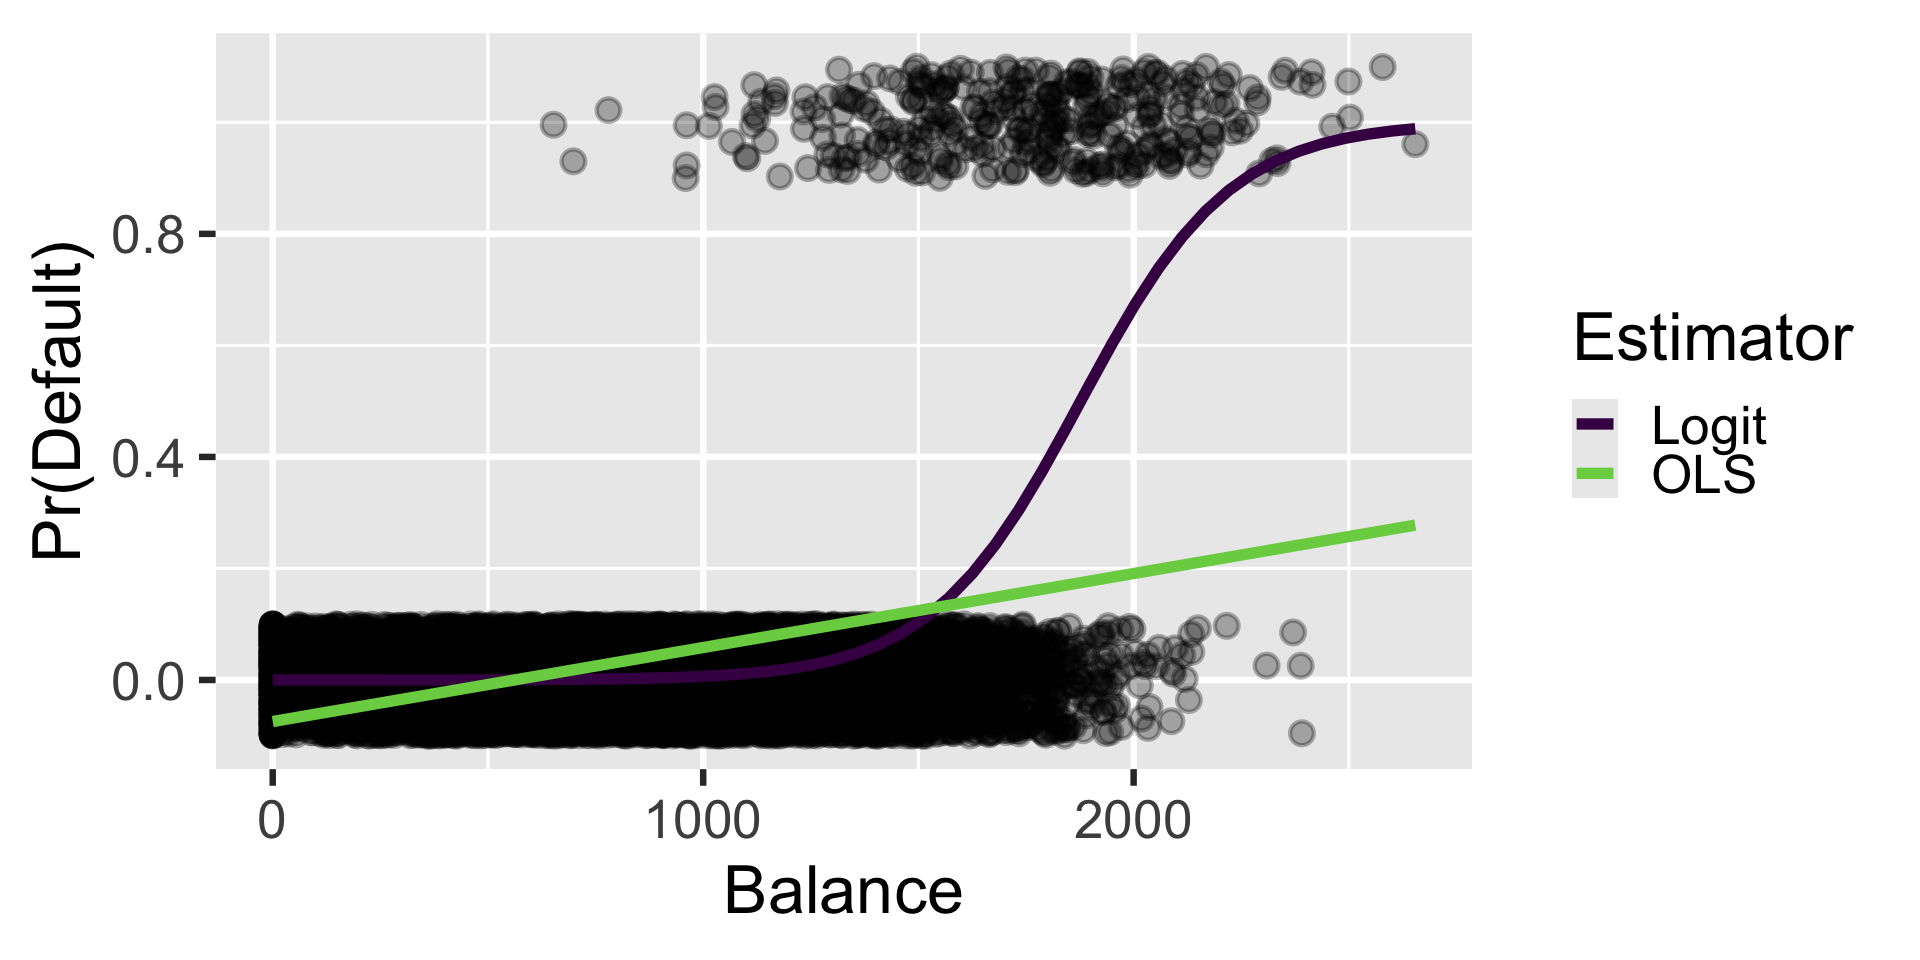
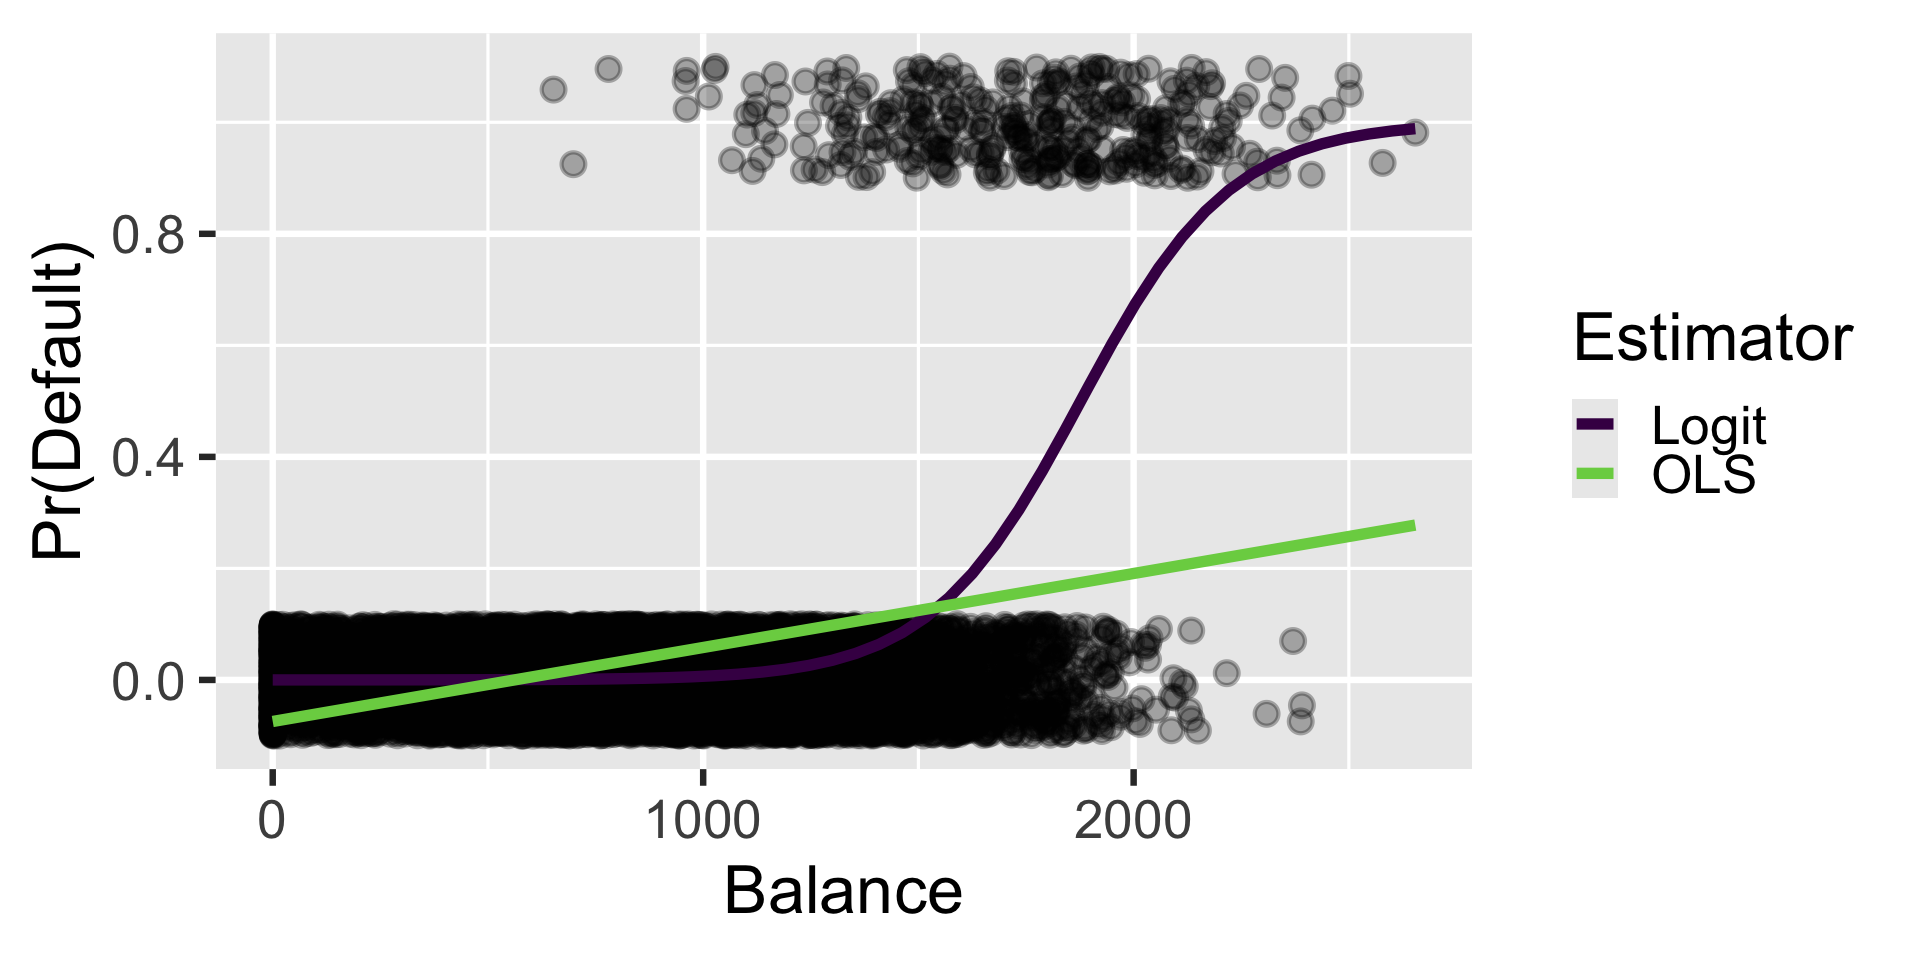
MLE slides ready now for real

diff --git a/slides/week7.html b/slides/week7.html
@@ -531,7 +531,7 @@ default    0    1
 <section id="estimation" class="slide level2">
 <h2>Estimation</h2>
 <div class="fragment">
-<p>Linear probability model</p>
+<p>Linear “probability” model</p>
 <div class="cell">
 <div class="code-copy-outer-scaffold"><div class="sourceCode cell-code" id="cb5"><pre class="sourceCode numberSource r number-lines code-with-copy"><code class="sourceCode r"><span id="cb5-1"><a href=""></a>ols <span class="ot">=</span> <span class="fu">lm</span>(default01 <span class="sc">~</span> student <span class="sc">+</span> balance <span class="sc">+</span> income, <span class="at">data =</span> Default)</span>
 <span id="cb5-2"><a href=""></a></span>
@@ -545,7 +545,7 @@ default    0    1
 </section>
 <section id="estimation-1" class="slide level2">
 <h2>Estimation</h2>
-<p>Linear probability model</p>
+<p>Linear “probability” model</p>
 <div class="cell">
 <div class="code-copy-outer-scaffold"><div class="sourceCode cell-code" id="cb7"><pre class="sourceCode numberSource r number-lines code-with-copy"><code class="sourceCode r"><span id="cb7-1"><a href=""></a>ols <span class="ot">=</span> <span class="fu">lm</span>(default01 <span class="sc">~</span> student <span class="sc">+</span> balance <span class="sc">+</span> income, <span class="at">data =</span> Default)</span>
 <span id="cb7-2"><a href=""></a></span>
